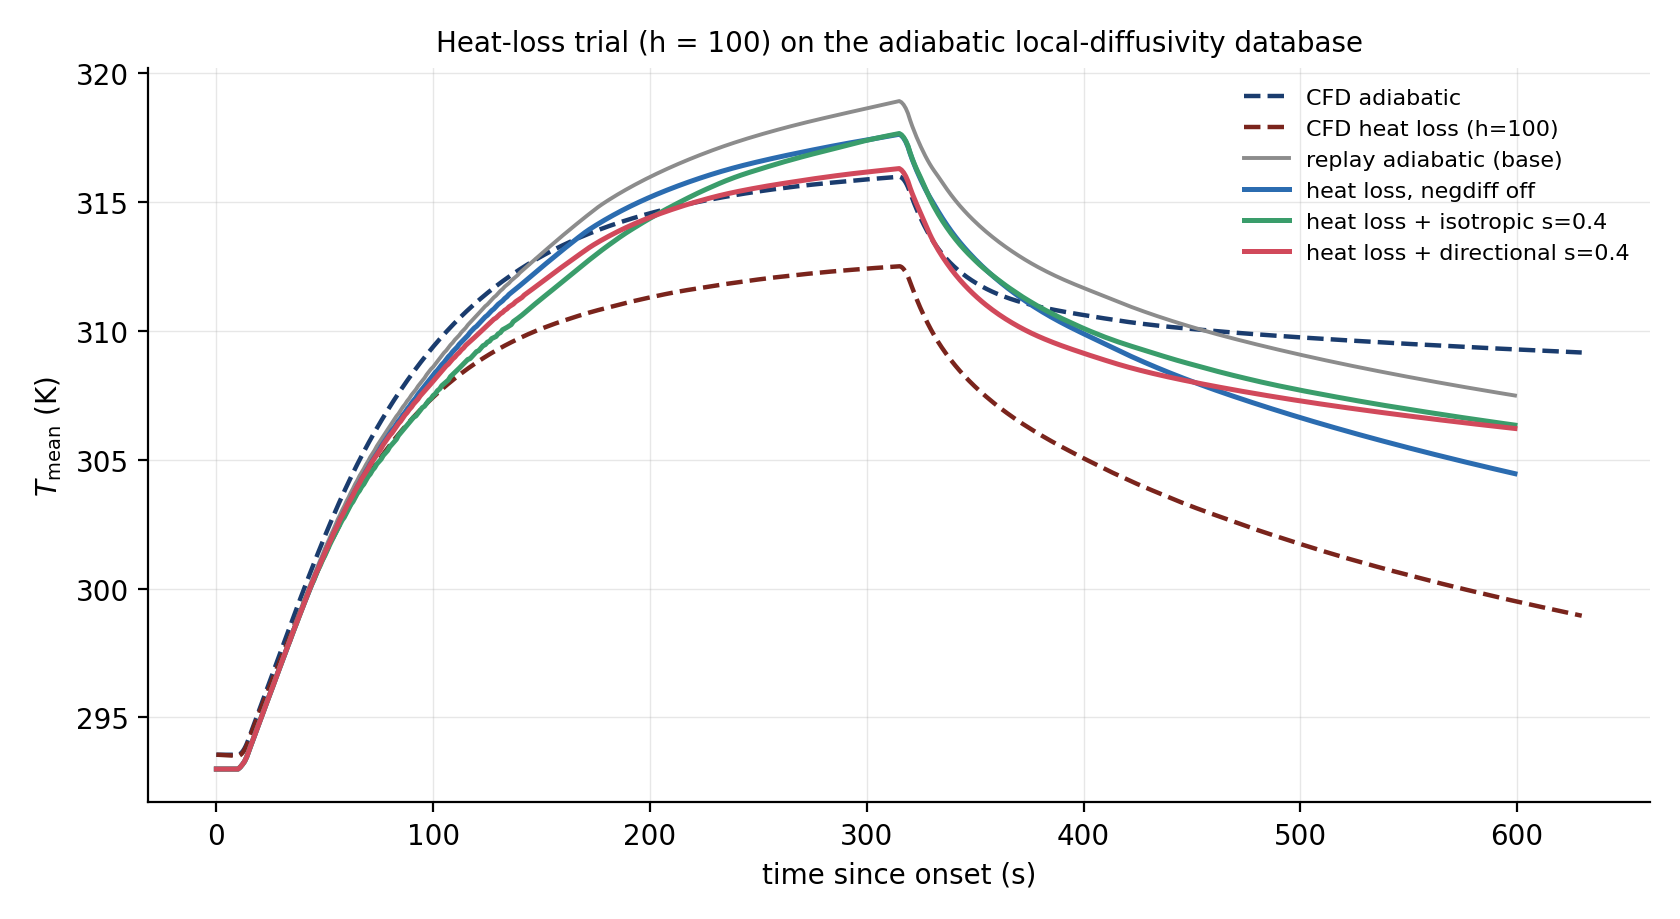
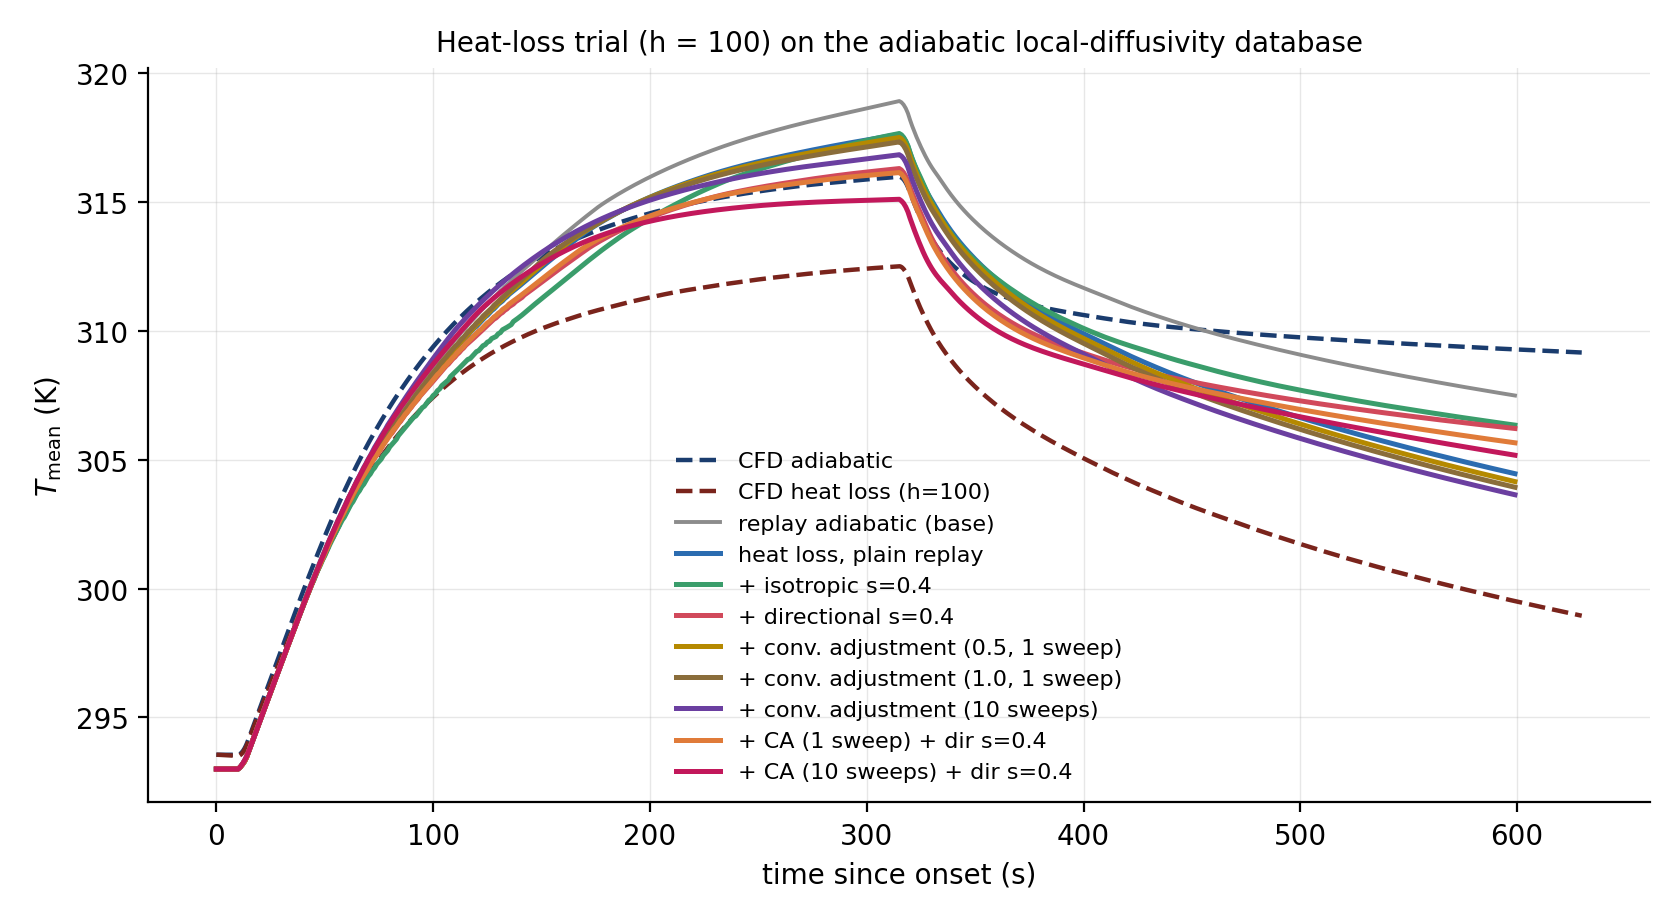
Negdiff: adaptive strength in 9.4; convective adjustment in 14.1

diff --git a/index.html b/index.html
@@ -232,7 +232,7 @@
 
 <div class="tldr">
   <h3>TL;DR</h3>
-  <p>Step 1 sets up the full ANSYS Fluent workflow on Windows 11 for a buoyant-jet test case, runs a CFD reference of the jet (its Reynolds number is low, $Re \approx 100$, so the flow is laminar), builds a recurrence-CFD (rCFD) database from it, and then replays that database to reproduce the temperature transport at a fraction of the original cost. We then sweep seven values of the rCFD mixing parameter $f_{sd}$. The best value depends on the metric: $f_{sd}=0.000$ gives the best mean temperature, while $f_{sd}=0.500$ gives the best thermal stratification ($CoG_y$). Step 2 then lets the tank lose heat at the top and tests how far the reused adiabatic database stretches: at the physical $h = 8$, and more visibly at a stronger $h = 100$, the replay captures only about a third of the cooling the full CFD shows, because it cannot reproduce the cooling-driven flow it never recorded. A field-based local diffusivity, read straight from the database, reproduces the hand-tuned $f_{sd} = 0.5$ with no tuning at all. A bounded negative diffusivity — an overshoot guard borrowed from flux-corrected transport, plus a directional weight — now sharpens the thermal front the replay used to smear: at strength $0.4$ it reproduces the CFD front width with no overshoot (§9.4). Under heat loss the same step makes the replay <em>worse</em>, which pins the remaining gap on the missing cooling-driven flow, not on the scalar transport (§14.1).</p>
+  <p>Step 1 sets up the full ANSYS Fluent workflow on Windows 11 for a buoyant-jet test case, runs a CFD reference of the jet (its Reynolds number is low, $Re \approx 100$, so the flow is laminar), builds a recurrence-CFD (rCFD) database from it, and then replays that database to reproduce the temperature transport at a fraction of the original cost. We then sweep seven values of the rCFD mixing parameter $f_{sd}$. The best value depends on the metric: $f_{sd}=0.000$ gives the best mean temperature, while $f_{sd}=0.500$ gives the best thermal stratification ($CoG_y$). Step 2 then lets the tank lose heat at the top and tests how far the reused adiabatic database stretches: at the physical $h = 8$, and more visibly at a stronger $h = 100$, the replay captures only about a third of the cooling the full CFD shows, because it cannot reproduce the cooling-driven flow it never recorded. A field-based local diffusivity, read straight from the database, reproduces the hand-tuned $f_{sd} = 0.5$ with no tuning at all. A bounded negative diffusivity — an overshoot guard borrowed from flux-corrected transport, plus a directional weight — now sharpens the thermal front the replay used to smear: at strength $0.4$ it reproduces the CFD front width with no overshoot (§9.4). Under heat loss the same step makes the replay <em>worse</em>, and its natural counterpart — a convective adjustment that mixes the unstable cold film downward — buys only a bounded share back (31% to 39% of the CFD cooling). Together they pin the remaining gap on the missing cooling-driven flow, not on the scalar transport (§14.1).</p>
   <button class="quick-tour-trigger" id="quickTourBtn" type="button"
           title="Auto-scroll through the five key figures (~60 s)">
     <svg viewBox="0 0 24 24" fill="none" stroke="currentColor"
@@ -1533,7 +1533,9 @@ for each cell i:
   <figcaption><span class="label">Figure 7e.</span> The strength sweep on the local-diffusivity base. Left: the end-state front width against the CFD reference (dashed). Middle: the mean $T_\text{mean}$ deviation over the replay. Right: the $CoG_y$ deviation. Inside the safe range ($s \le 1/6$, dotted) the mean improves but the width barely moves. The isotropic form (blue) reaches the CFD width only at $s = 0.9$, with the roughest profile of the set. Both directional forms get there around $s = 0.4$; the prescribed vertical normal (orange) is also the most accurate on the mean, the gradient-based normal (purple) sits in between.</figcaption>
 </figure>
 
-<p>The reading is short. Below $s = 1/6$ the operator is safe by a margin and improves the mean temperature monotonically (1.15 K down to 0.98 K against the CFD trace), but the front hardly thins: small strengths repair the mean, not the smeared front. The isotropic form buys the CFD width only at $s = 0.9$ and pays with a saw-toothed, mottled field. The directional form with the vertical normal wins on every metric at once: at $s = 0.4$ it reproduces the CFD front width (5.5 mm against 5.6 mm), more than halves the mean deviation (0.54 K against 1.15 K), and produces the <em>smoothest</em> end profile of the whole sweep — smoother than the uncorrected replay itself, because the sideways ripple-amplification is switched off. The gradient-based normal beats the isotropic form everywhere and finds the width at the same strength, but stays behind the vertical one: at a ripple, the local gradient points along the ripple's own normal, so the data-driven weight sharpens ripples as readily as the front. Where the front orientation is known, prescribing it wins. No run of the twenty-one overshoots: every end field stays inside 293–333 K, by construction.</p>
+<p>The reading is short. Below $s = 1/6$ the operator is safe by a margin and improves the mean temperature monotonically (1.15 K down to 0.98 K against the CFD trace), but the front hardly thins: small strengths repair the mean, not the smeared front. The isotropic form buys the CFD width only at $s = 0.9$ and pays with a saw-toothed, mottled field. The directional form with the vertical normal wins on every metric at once: at $s = 0.4$ it reproduces the CFD front width (5.5 mm against 5.6 mm), more than halves the mean deviation (0.54 K against 1.15 K), and produces the <em>smoothest</em> end profile of the whole sweep — smoother than the uncorrected replay itself, because the sideways ripple-amplification is switched off. The gradient-based normal beats the isotropic form everywhere and finds the width at the same strength, but stays behind the vertical one: at a ripple, the local gradient points along the ripple's own normal, so the data-driven weight sharpens ripples as readily as the front. Where the front orientation is known, prescribing it wins. No run overshoots: every end field stays inside 293–333 K, by construction.</p>
+
+<p>The strength can come from the field as well (the pink series in Figure 7e). Reading the recorded local-diffusion field of §9.3 at run time would be the natural source, but the library exposes that field in preparation mode only, so a front sensor stands in: each face runs at $s_\text{face} = s\,(1 - \Delta T_\text{face}/\Delta T_\text{local})$ — full strength deep inside a smeared ramp, tapering to zero as a pair approaches its local extrema, ahead of the hard limiter. With the vertical normal, the sensor at a reference strength of $0.6$ reproduces the fixed working point in every metric at once, so what remains of $s$ is a single calibration constant, not a spatial tuning.</p>
 
 <figure class="wide">
   <img src="assets/figures/fig_negdiff_ld_traces.png" alt="Mean temperature and centre of gravity over the replay for the CFD reference, the base replay, the isotropic form at s = 0.9 and the directional form at s = 0.4" style="max-width:780px;width:100%;display:block;margin:0 auto;border-radius:6px;">
@@ -2554,6 +2556,9 @@ rcfd_modify_balance_mass_source_one(handle, water, water_temp, -per_node_wall_he
 <tr class="best"><td>replay, sharpening off</td><td class="num">304.46</td><td class="num">3.03</td><td class="num">31%</td></tr>
 <tr><td>replay + isotropic $s=0.4$</td><td class="num">306.34</td><td class="num">1.15</td><td class="num">12%</td></tr>
 <tr><td>replay + directional $s=0.4$</td><td class="num">306.21</td><td class="num">1.28</td><td class="num">13%</td></tr>
+<tr><td>replay + convective adjustment (one sweep)</td><td class="num">303.93</td><td class="num">3.56</td><td class="num">36%</td></tr>
+<tr><td>replay + convective adjustment (ten sweeps)</td><td class="num">303.64</td><td class="num">3.85</td><td class="num">39%</td></tr>
+<tr><td>replay + directional + adjustment (ten sweeps)</td><td class="num">305.17</td><td class="num">2.32</td><td class="num">24%</td></tr>
 </tbody>
 </table>
 </div>
@@ -2562,15 +2567,19 @@ rcfd_modify_balance_mass_source_one(handle, water, water_temp, -per_node_wall_he
 
 <figure class="wide">
   <img src="assets/figures/fig_negdiff_ld_hl_trace.png" alt="Mean temperature traces of the heat-loss trial: CFD cools far below all replays; the sharpened replays stay warmer than the plain one" style="max-width:860px;width:100%;display:block;margin:0 auto;border-radius:6px;">
-  <figcaption><span class="label">Figure 11b.</span> The mean-temperature traces. The plain replay (blue) follows the CFD cooling part of the way down; both sharpened replays end <em>warmer</em>.</figcaption>
+  <figcaption><span class="label">Figure 11b.</span> The mean-temperature traces. The plain replay (blue) follows the CFD cooling part of the way down; both sharpened replays end <em>warmer</em>. The convective-adjustment runs, introduced below, are the only ones that end cooler than the plain replay.</figcaption>
 </figure>
 
 <p>Why? The sink at the top surface scales with the film temperature, $q = h\,A\,(T - T_\text{amb})$. In the CFD, the cooled surface water sinks in thin cold streaks, the bulk overturns, and warm water keeps arriving at the surface to be cooled in turn — the flux stays alive. The replay's flow is the frozen adiabatic loop, and a frozen flow does not react to the new cold fluid: nothing sinks. The plain replay still cools noticeably, because its numerical smearing keeps exchanging fluid across the top layer — cold down, warm up. That smearing, the very thing §9.4 is built to remove, had been quietly standing in for the missing vertical transport. The sharpened replays remove it: a thin, clean cold film settles on the top layer, its temperature falls towards $T_\text{amb}$, and the wall flux quenches itself. The hot bulk below stays hot.</p>
 
 <figure class="wide">
   <img src="assets/figures/fig_negdiff_ld_hl_qwall.png" alt="Wall heat-loss rate over the replay: the plain replay keeps the flux alive, the sharpened replays let it collapse" style="max-width:820px;width:100%;display:block;margin:0 auto;border-radius:6px;">
-  <figcaption><span class="label">Figure 11c.</span> The self-quenching, measured. The wall-flux monitor tracks all three runs together while the tank fills; once the warm phase ends, the sharpened replays lose their wall flux much faster, ending at 1.3&ndash;1.4 W against 2.0 W for the plain replay.</figcaption>
+  <figcaption><span class="label">Figure 11c.</span> The self-quenching, measured. The wall-flux monitor tracks the runs together while the tank fills; once the warm phase ends, the sharpened replays lose their wall flux much faster, ending at 1.3&ndash;1.4 W against 2.0 W for the plain replay. The two upper curves belong to the convective adjustment below: it keeps clearing the cold film, and the flux stays above even the plain replay.</figcaption>
 </figure>
+
+<p><strong>The counterpart: convective adjustment.</strong> The cold film on warm fluid is statically unstable — and one part of the missing transport can be modelled locally after all. Atmospheric and ocean models treat exactly this situation with a <em>convective adjustment</em>: wherever a vertical pair of cells is unstable, the pair exchanges energy towards its neutral mean. We added this operator to the same user hook. It acts on vertical links only, each exchange moves a pair towards its own mean (so it cannot overshoot), it can sweep the mesh several times per replay step so the surface mixed layer can eat downward, and it is silent wherever the column is stable: switched on in the adiabatic replay it changes the end temperature by less than 0.01 K. On its own it lifts the captured cooling from 31% to 39% (ten sweeps per step) and revives the wall flux (3.0 W at the end against 2.0 W, Figure 11c). Combined with the directional sharpening it repairs most of what the sharpening had cost, 13% back up to 24%: the two operators are compatible, one steepening stable fronts, the other removing unstable ones.</p>
+
+<p>The saturation is as telling as the gain: ten sweeps buy only a few points more than one. The adjustment removes the local instability, but the cooled fluid still spreads cell by cell, as a mixed layer eating downward, while the CFD carries it in thin plumes through the whole hot layer and brings warm fluid back up in an overturning loop. That motion is not a local property of the temperature field — it lives in the flow, and the flow lives in the database. Together the two experiments <em>bound</em> what the scalar side can contribute: sharpening costs cooling, adjustment buys part of it back, and the pair tops out at roughly a third of the CFD cooling.</p>
 
 <figure class="wide">
   <img src="assets/figures/fig_negdiff_montage_ld_hl.png" alt="Contour montage of the heat-loss trial: CFD with a uniformly cooled upper bulk; replays with the cooling stuck at the top, cleanly in the directional case, as ragged patches in the isotropic one" style="max-width:1120px;width:100%;display:block;margin:0 auto;border-radius:6px;">
@@ -2631,7 +2640,7 @@ rcfd_modify_balance_mass_source_one(handle, water, water_temp, -per_node_wall_he
 })();
 </script>
 
-<p>Put next to §14, this sorts the two errors of the heat-loss replay cleanly. The smeared front is a <em>numerical</em> error, and the scalar side now fixes it (§9.4). The missing cooling is a <em>transport</em> error, and no scalar-side operator can fix it — not the diffusion model (§14), and not its inverse (this section). Both experiments point at the same place: the flow states in the database. That is exactly the motivation for §15 and §16 — bring the cooling-driven motion into the recorded patterns; the sharpening step then has the job it is good at, keeping the resulting fronts and low-temperature streaks sharp instead of smeared.</p>
+<p>Put next to §14, this sorts the two errors of the heat-loss replay cleanly. The smeared front is a <em>numerical</em> error, and the scalar side now fixes it (§9.4). The missing cooling is a <em>transport</em> error, and the scalar side is now measured out on both ends of it: the diffusion model does not close it (§14), removing the diffusion makes it worse, and the convective adjustment buys back only its bounded share. All of it points at the same place: the flow states in the database. That is exactly the motivation for §15 and §16 — bring the cooling-driven motion into the recorded patterns; the sharpening step then has the job it is good at, keeping the resulting fronts and low-temperature streaks sharp instead of smeared.</p>
 
 <h2 id="rebuild">15 — Rebuilding the Database with Heat Loss</h2>
 
